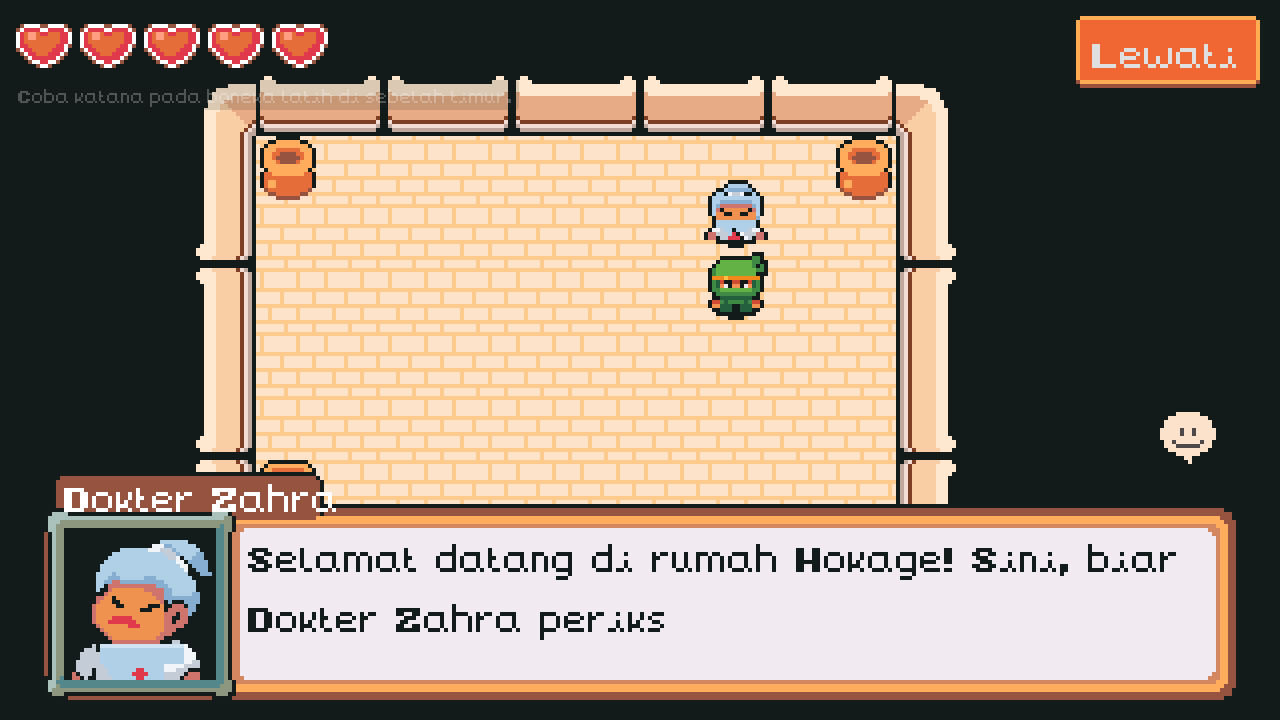
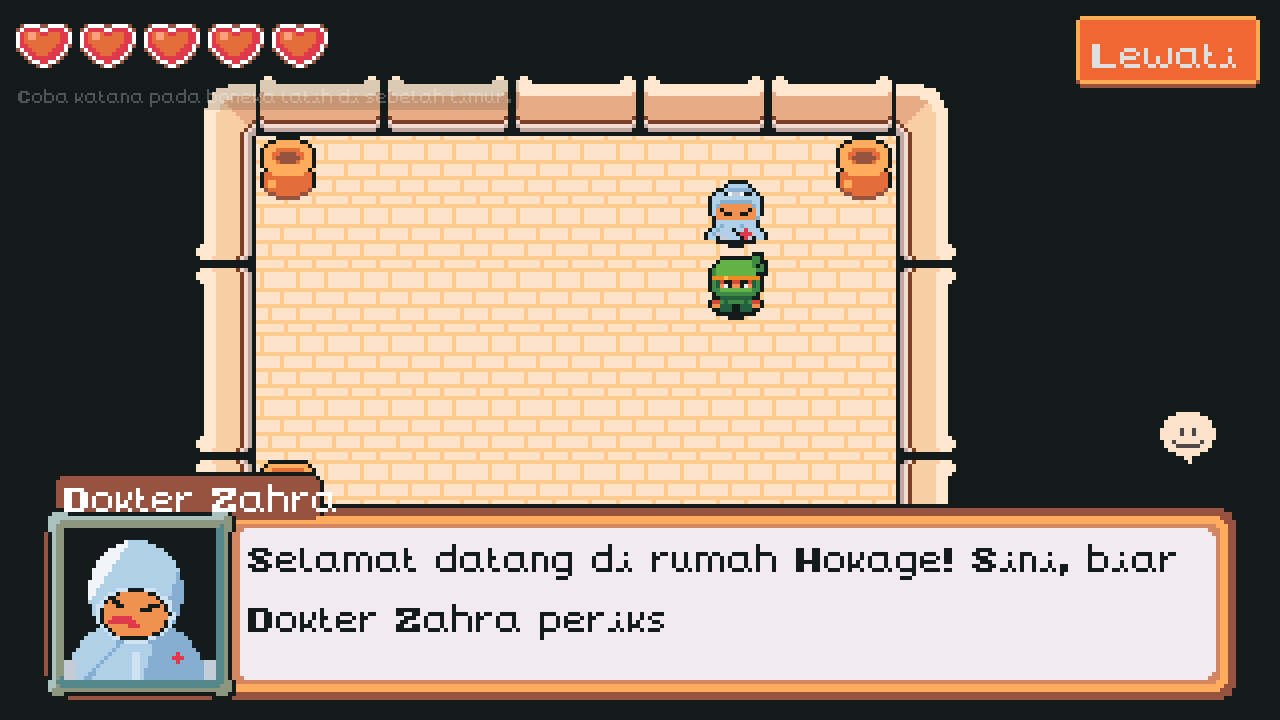
feat: hijab Dokter Zahra sangat tertutup (faceset + sprite), kain leher faceset Bida/Nadiya/Farah, keputusan final anak kandung
- gen_characters.py: zahra_hijab_face (hanya wajah terlihat, kain menutup rambut/telinga/leher/bahu/dada), neck_cloth(widths) untuk hijab panjang, face_neck_cloth
- story_bible 3.1/3.2, SOURCES, fase2_catatan: deskripsi hijab/tudung dan keputusan final keempatnya anak kandung (sisa [USULAN]: usia/urutan lahir)
- screenshot 16, 23-25 (faceset sebelum/sesudah, zoom perempuan) dan semua screenshot game diambil ulang

Claude-Session: https://claude.ai/code/session_01F5qnggTGEAPer6BV2KrinP

Changed region(s): [[0.0312, 0.7333, 0.1875, 0.9472], [0.5312, 0.275, 0.5938, 0.3361]]

diff --git a/tools/gen_characters.py b/tools/gen_characters.py
@@ -107,10 +107,14 @@ def side_sign(direction):
 
 # ---------------------------------------------------------------- fitur per tokoh
 
-def neck_cloth(cell, top, cx, color, trim, wide=5):
+def neck_cloth(cell, top, cx, color, trim, wide=5, widths=None):
     """Kain tudung/hijab yang menutup leher dan jatuh membentuk segitiga kecil di dada.
-    Dua baris pertama melebar, baris ketiga menyempit; garis tepi (trim) memberi kesan lipatan."""
-    rows = ((top + 9, wide, trim), (top + 10, wide - 1, color), (top + 11, max(wide - 3, 1), color))
+    Dua baris pertama melebar, baris ketiga menyempit; garis tepi (trim) memberi kesan lipatan.
+    widths: daftar setengah-lebar per baris (mulai top+9) untuk hijab panjang."""
+    if widths:
+        rows = [(top + 9 + i, half, trim if i == 0 else color) for i, half in enumerate(widths)]
+    else:
+        rows = ((top + 9, wide, trim), (top + 10, wide - 1, color), (top + 11, max(wide - 3, 1), color))
     for y, half, edge in rows:
         for x in range(cx - half + 1, cx + half + 1):
             if is_opaque(cell, x, y) and cell.getpixel((x, y)) != OUTLINE:
@@ -313,19 +317,26 @@ def hilmi_features(cell, d, top, cx, row):
 
 def zahra_features(cell, d, top, cx, row):
     red = rgb("e0394c")
-    # hijab biru muda yang lembut: menutup kepala dan leher, jatuh di dada, ujungnya berkibar
+    # hijab biru muda yang lembut dan panjang: menutup kepala, leher, bahu, dan dada; ujungnya berkibar
     cloth, trim, shade = rgb("b0d0e8"), rgb("cfe3f3"), rgb("86aed0")
-    neck_cloth(cell, top, cx, cloth, trim, wide=6)
+    neck_cloth(cell, top, cx, cloth, trim, widths=[7, 7, 6, 4, 2])
+    # lipatan kecil: garis bayangan menurun dari leher
+    for i in range(3):
+        for sign in (-1, 1):
+            xx = cx + sign * (2 + i) - (1 if sign < 0 else 0)
+            if is_opaque(cell, xx, top + 10 + i) and cell.getpixel((xx, top + 10 + i)) == cloth:
+                cell.putpixel((xx, top + 10 + i), shade)
     cloth_tail(cell, d, top, cx, cloth, shade)
     if d == DOWN:
-        # palang kesehatan di dada jas putih (di bawah hijab)
-        for dx in (-1, 0, 1):
-            put(cell, cx + dx, top + 13, red)
-        put(cell, cx, top + 12, red)
-        put(cell, cx, top + 14, red)
+        # palang kesehatan sebagai lencana di dada kanan (di atas kain)
+        put(cell, cx + 3, top + 11, red)
+        put(cell, cx + 2, top + 12, red)
+        put(cell, cx + 3, top + 12, red)
+        put(cell, cx + 4, top + 12, red)
+        put(cell, cx + 3, top + 13, red)
     elif d in (LEFT, RIGHT):
+        put(cell, cx, top + 12, red)
         put(cell, cx, top + 13, red)
-        put(cell, cx, top + 14, red)
 
 
 # ---------------------------------------------------------------- definisi tokoh
@@ -394,8 +405,10 @@ CHARACTERS = {
             rgb("548789"): rgb("c4ccd8"),
             rgb("f1c471"): rgb("b0d0e8"),   # rambut pirang terang -> hijab biru muda
             rgb("d78b4a"): rgb("86aed0"),   # rambut pirang gelap -> bayangan hijab
+            rgb("cf736d"): rgb("ef914f"),   # semburat pipi/telinga di kepala -> warna kulit (telinga tertutup)
         },
-        "body": {},
+        # badan: leher/kerah merah muda menjadi kain hijab, tangan tertutup lengan jas putih
+        "body": {rgb("cf736d"): rgb("b0d0e8"), rgb("ef914f"): rgb("f1f4f8")},
         "tuft": {},
         "features": zahra_features,
     },
@@ -442,6 +455,72 @@ def ring(img, cx, cy, r, color):
 def put_img(img, x, y, color):
     if 0 <= x < img.width and 0 <= y < img.height:
         img.putpixel((x, y), color)
+
+
+def face_neck_cloth(img, color, trim, shade):
+    """Kain tudung menutup leher di faceset: pita kain (tepi terang + 3 baris kain + lipatan)."""
+    for x in range(4, 35):
+        for y, tone in ((29, trim), (30, color), (31, color), (32, shade)):
+            px = img.getpixel((x, y))
+            if px != OUTLINE:
+                img.putpixel((x, y), tone)
+    for x in range(10, 29, 4):  # lipatan kecil
+        if img.getpixel((x, 31)) != OUTLINE:
+            img.putpixel((x, 31), shade)
+
+
+def zahra_hijab_face(img):
+    """Dokter Zahra: hijab sangat tertutup ala hijab muslimah. Seluruh rambut, dahi atas, sisi wajah,
+    telinga, dan leher tertutup kain; kain jatuh menutup bahu dan dada. Hanya wajah (mata, hidung, mulut)
+    yang terlihat, dibingkai garis tepi kain gelap + tepi terang. Piksel wajah diambil dari sprite pack."""
+    orig = img.copy()
+    cloth, shade, light, trim = rgb("b0d0e8"), rgb("86aed0"), rgb("f1f4f8"), rgb("cfe3f3")
+    coat, red = rgb("c4ccd8"), rgb("e0394c")
+    cx, cy, rx, ry = 17.3, 21.2, 8.0, 5.8  # lubang wajah
+
+    def silhouette(x, y):
+        dome = ((x - 17.5) / 11.8) ** 2 + ((y - 15.5) / 12.8) ** 2 <= 1.0
+        drape = y >= 25 and abs(x - 17.5) <= 9.5 + 9.5 * (((y - 25) / 12.0) ** 0.6)
+        return dome or drape
+
+    for y in range(img.height):
+        for x in range(img.width):
+            img.putpixel((x, y), OUTLINE)
+    for y in range(img.height):
+        for x in range(img.width):
+            if not silhouette(x, y):
+                continue
+            tone = cloth
+            lean = (x - 17.5) * 0.9 + (y - 15.5) * 0.3
+            if lean > 8.0:
+                tone = shade  # sisi kanan lebih gelap
+            elif (x - 17.5) * 0.9 + (y - 15.5) * 0.6 < -9.0:
+                tone = light  # kilau kiri atas
+            if y >= 28:  # lipatan berbentuk V dari leher, dan lipatan tengah
+                fold = abs(abs(x - 17.5) - ((y - 27) * 0.9 + 3.0))
+                if fold < 0.65:
+                    tone = shade
+                elif y >= 31 and abs(x - 17.5) < 0.6:
+                    tone = trim
+            img.putpixel((x, y), tone)
+    for y in range(img.height):
+        for x in range(img.width):
+            e = ((x - cx) / rx) ** 2 + ((y - cy) / ry) ** 2
+            if e <= 1.0:
+                pixel = orig.getpixel((x, y))
+                if pixel == rgb("cf736d") and (x > 22 or x < 12):
+                    pixel = rgb("ef914f")  # semburat telinga di tepi wajah diganti warna kulit (telinga tertutup)
+                img.putpixel((x, y), pixel)
+            elif e <= 1.2:
+                img.putpixel((x, y), OUTLINE)  # garis tepi kain di sekeliling wajah
+            elif e <= 1.5 and silhouette(x, y):
+                img.putpixel((x, y), trim)  # tepi kain terang
+    # jas putih di sudut bawah dan palang merah sebagai lencana di dada kanan
+    for y in range(33, 38):
+        for x in list(range(0, 3)) + list(range(35, 38)):
+            img.putpixel((x, y), coat)
+    for pt in ((28, 31), (27, 32), (28, 32), (29, 32), (28, 33)):
+        img.putpixel(pt, red)
 
 
 def face_overlay(name, img):
@@ -498,12 +577,13 @@ def face_overlay(name, img):
         fill(img, 17, 5, 20, 8, rgb("f5c542"))
         fill(img, 18, 6, 19, 7, rgb("d6283c"))
     elif name == "dokter_zahra":
-        # hijab menutup leher dan jatuh di dada; palang merah di jas putih
-        fill(img, 9, 29, 29, 33, rgb("b0d0e8"))
-        fill(img, 9, 29, 29, 29, rgb("cfe3f3"))
-        fill(img, 14, 34, 24, 37, rgb("b0d0e8"))
-        fill(img, 18, 35, 19, 37, rgb("e0394c"))
-        fill(img, 17, 36, 20, 36, rgb("e0394c"))
+        zahra_hijab_face(img)
+    if name == "bida":
+        face_neck_cloth(img, rgb("2f4ea0"), rgb("4a6cc0"), rgb("23366e"))
+    elif name == "nadiya":
+        face_neck_cloth(img, rgb("e8364c"), rgb("f0566a"), rgb("a62e48"))
+    elif name == "farah":
+        face_neck_cloth(img, rgb("ffd84a"), rgb("fff1a0"), rgb("f2a62a"))
 
 
 # ---------------------------------------------------------------- penyusunan

diff --git a/docs/story_bible.md b/docs/story_bible.md
@@ -54,24 +54,24 @@ Versi Inggris memakai nama yang sama; istilah dijelaskan lewat konteks dialog. "
 | Tokoh | Warna utama | Ciri khas (siluet) |
 |---|---|---|
 | Arka | Hijau daun + ikat kepala oranye | Katana di punggung, rambut mencuat |
-| Bida | Biru tua | **Tudung ninja** menutup kepala dan leher (ujung kain berkibar), kacamata bulat, gulungan strategi di punggung |
-| Nadiya | Merah | **Tudung ninja** merah dengan pita kuning di sisi tudung dan ujung kain berkibar, bandolir shuriken/kunai |
-| Farah | Kuning | **Tudung ninja** kuning, goggle dipakai di dahi di atas tudung, ransel penuh antena dan alat |
+| Bida | Biru tua | **Tudung ninja** biru tua menutup rapat seluruh kepala dan leher (tidak ada rambut atau leher terlihat; ujung kain berkibar, garis tepi kain), kacamata bulat, gulungan strategi di punggung |
+| Nadiya | Merah | **Tudung ninja** merah menutup rapat kepala dan leher, pita kuning di sisi tudung, ujung kain berkibar, bandolir shuriken/kunai |
+| Farah | Kuning | **Tudung ninja** kuning menutup rapat kepala dan leher, goggle dipakai di dahi di atas tudung, ransel penuh antena dan alat |
 
-Keputusan tampilan (pengguna): **Bida, Nadiya, dan Farah berhijab atau bertudung ninja** (kain penutup kepala dan leher ala ninja, sesuai gaya tiap tokoh); **Dokter Zahra berhijab** (lihat 3.2). Arka dan Pak Hilmi tidak berubah. Tidak ada penyebutan kuncir atau ikat rambut untuk tokoh perempuan; detail tambahan memakai ujung tudung yang berkibar, pita di sisi tudung, dan garis tepi kain.
+Keputusan tampilan (pengguna): **Bida, Nadiya, dan Farah berhijab atau bertudung ninja** (kain penutup kepala dan leher ala ninja, sesuai gaya tiap tokoh, **tertutup rapat**: tidak ada rambut atau leher yang terlihat di sprite maupun faceset); **Dokter Zahra berhijab sangat tertutup** (lihat 3.2). Arka dan Pak Hilmi tidak berubah. Tidak ada penyebutan kuncir atau ikat rambut untuk tokoh perempuan; detail tambahan memakai ujung tudung yang berkibar, pita di sisi tudung, dan garis tepi kain.
 
 ### 3.2 Tokoh pendukung
 | Tokoh | Peran | Sifat lucu | Fungsi |
 |---|---|---|---|
 | **Hokage Pak Hilmi** | Pemimpin bijak; menyimpan rahasia tentang Kuro dan Mesin | Takut ayam (bersembunyi saat mendengar kokok) | Mentor, sumber informasi, penghubung sejarah desa |
-| **Dokter Zahra** | Membantu memimpin Desa Daun, dokter desa; **berhijab** biru muda yang lembut dengan jas putih berlambang palang | Keibuan dan lembut, takut serangga | **Menyembuhkan rombongan setiap kali mereka datang ke rumah Hokage dan berinteraksi dengannya** |
+| **Dokter Zahra** | Membantu memimpin Desa Daun, dokter desa; **berhijab sangat tertutup seperti hijab muslimah**: kain biru muda yang lembut menutup seluruh rambut, dahi atas, sisi wajah, telinga, dan leher, lalu jatuh panjang menutup bahu dan dada; hanya wajah (mata, hidung, mulut) yang terlihat, dengan jas putih dan lencana palang merah di dada | Keibuan dan lembut, takut serangga | **Menyembuhkan rombongan setiap kali mereka datang ke rumah Hokage dan berinteraksi dengannya** |
 | **Kuro** | Antagonis: dulu murid berbakat yang ikut membangun Mesin; proyek dihentikan setelah kecelakaan, ia merasa dikhianati | Tetap manusiawi (lihat usulan di 3.3) | Berubah dari lawan menjadi sekutu yang memperbaiki desa |
 
 **Panggilan keluarga (keputusan pengguna):** Arka, Bida, Nadiya, dan Farah memanggil Pak Hilmi **"Ayah"** dan Dokter Zahra **"Mamah"** dalam percakapan sehari-hari (EN sementara: "Dad" / "Mom"; bisa diganti). Warga lain, narasi, dan nama pembicara di dialog tetap "Hokage Pak Hilmi" dan "Dokter Zahra"; nama baku di brief tidak berubah.
 
-**Keputusan pengguna: hubungan keluarga = anak kandung.** Tafsir yang dipakai (bisa dikoreksi): **Arka, Bida, Nadiya, dan Farah adalah
-anak kandung Hokage Pak Hilmi dan Dokter Zahra, jadi bersaudara dan sekaligus rekan tim.** Usia dan urutan lahir belum ditentukan
-**[USULAN]** (jangan ditetapkan dulu). **Perubahan dari brief yang disetujui:** brief asli menyebut Bida, Nadiya, Farah sebagai
+**Keputusan final pengguna (dikonfirmasi): hubungan keluarga = anak kandung.** **Arka, Bida, Nadiya, dan Farah keempatnya adalah
+anak kandung Hokage Pak Hilmi dan Dokter Zahra, jadi bersaudara dan sekaligus rekan tim.** Hanya usia dan urutan lahir yang belum
+ditentukan **[USULAN]** (jangan ditetapkan dulu). **Perubahan dari brief yang disetujui:** brief asli menyebut Bida, Nadiya, Farah sebagai
 "tiga teman perempuan" Arka; mulai sekarang mereka **saudara dan rekan tim**.
 
 Dampak ringkas:

diff --git a/docs/fase2_catatan.md b/docs/fase2_catatan.md
@@ -192,8 +192,8 @@ kesulitan perlu dicoba langsung oleh pengguna.
 
 ## Pembaruan: hubungan keluarga = anak kandung (keputusan pengguna)
 
-- Pengguna memutuskan **anak kandung**. Tafsir yang dipakai (bisa dikoreksi): **Arka, Bida, Nadiya, Farah adalah anak kandung Pak Hilmi
-  dan Dokter Zahra, jadi bersaudara dan rekan tim**; usia/urutan lahir belum ditentukan. Ini **perubahan dari brief** (brief menyebut
+- Pengguna memutuskan **anak kandung** dan **mengonfirmasi keempatnya** (Arka, Bida, Nadiya, Farah) adalah anak kandung Pak Hilmi
+  dan Dokter Zahra, jadi bersaudara dan rekan tim (keputusan final); hanya usia/urutan lahir yang belum ditentukan [USULAN]. Ini **perubahan dari brief** (brief menyebut
   "tiga teman perempuan"). Dicatat di `docs/story_bible.md` 2.1 dan 3.2 (tiga opsi [USULAN] lama diganti keputusan + dampak:
   Arka bercita-cita seperti ayahnya, Pak Hilmi tidak memberi keistimewaan, tim = keluarga, Kuro melihat Arka sebagai "anak sang guru"
   di Act 8 tanpa mengubah motivasinya), `docs/act01_desain.md` (S2 dan catatan 12.3), `docs/RENCANA_PENGERJAAN.md` (keputusan 7-8), `README.md`.
@@ -224,3 +224,17 @@ kesulitan perlu dicoba langsung oleh pengguna.
   (`claim`) dan gagal (exit 1) bila ada objek menimpa objek lain**, sehingga masalah ini tidak terulang. Peta di-build ulang: 0 tumpang tindih.
 - Screenshot sebelum/sesudah: `17_pot_pohon_LAMA_sebelum/sesudah.png` dan `18_pot_pohon_BARU_sebelum/sesudah.png`
   (dibuat `tools/shots_destroy.gd`). Peta sample bawaan `map_village.tscn` tidak dipakai lagi dan tidak diubah.
+
+## Pembaruan: hijab Dokter Zahra sangat tertutup
+
+- **Faceset Dokter Zahra digambar ulang** (`zahra_hijab_face()` di `tools/gen_characters.py`): hijab ala muslimah yang menutup seluruh
+  rambut, dahi atas, sisi wajah, telinga, dan leher; kain jatuh panjang menutup bahu dan dada dengan lipatan V, lipatan tengah, kilau
+  kiri atas dan bayangan kanan. Hanya wajah (mata, hidung, mulut) yang terlihat, dibingkai garis tepi kain gelap + tepi terang.
+  Jas putih terlihat di sudut bawah dan palang merah menjadi lencana di dada. Sebelumnya rambut dan leher masih terlihat di faceset.
+- **Sprite Dokter Zahra**: hijab panjang menutup bahu dan dada di 4 arah (`neck_cloth(widths=...)`, lipatan, ujung kain berkibar);
+  dari belakang kepala tertutup penuh kain; tangan di badan memakai lengan jas putih, semburat telinga/leher diganti kain atau kulit.
+- **Bida, Nadiya, Farah**: diperiksa; sprite sudah menutup kepala dan leher penuh (tidak ada rambut/leher terlihat), faceset kini diberi
+  pita kain leher (`face_neck_cloth()`) dengan tepi terang dan lipatan. Ciri khas dipertahankan (kacamata bulat Bida, bandolir + pita kuning
+  Nadiya, goggle di atas tudung Farah).
+- Screenshot: `docs/fase2_screenshots/23_faceset_zahra_SEBELUM.png` dan `24_faceset_zahra_SESUDAH.png` (zoom 10x),
+  `25_faceset_perempuan_zoom.png` (Zahra, Bida, Nadiya, Farah), `16_sprite_tokoh.png` (semua sprite), dan `11_dokter_zahra.png` (dialog).

diff --git a/assets/SOURCES.md b/assets/SOURCES.md
@@ -32,7 +32,7 @@ Dibuat ulang secara deterministik (recolor palet + aksesori piksel); jangan died
 | Nadiya | `Actor/Character/NinjaRed2` | merah, tudung ninja dengan pita kuning di sisi, bandolir shuriken |
 | Farah | `Actor/Character/NinjaYellow` | kuning, tudung ninja, goggle di dahi di atas tudung, ransel dengan antena |
 | Pak Hilmi | `Actor/Character/OldMan2` | topi Hokage berlambang emas, rambut putih |
-| Dokter Zahra | `Actor/Character/Woman` | hijab biru muda (rambut pirang diganti kain), jas putih dengan palang merah |
+| Dokter Zahra | `Actor/Character/Woman` | hijab sangat tertutup biru muda (rambut, telinga, leher, bahu, dan dada tertutup kain; hanya wajah terlihat), jas putih, lencana palang merah |
 
 Pack sumber: `Ninja Adventure - Asset Pack/Actor/Character/` (folder pack ada di luar repo).
 Skrip mencari pack otomatis di folder induk repo, atau pakai `--pack "<folder>"`.
